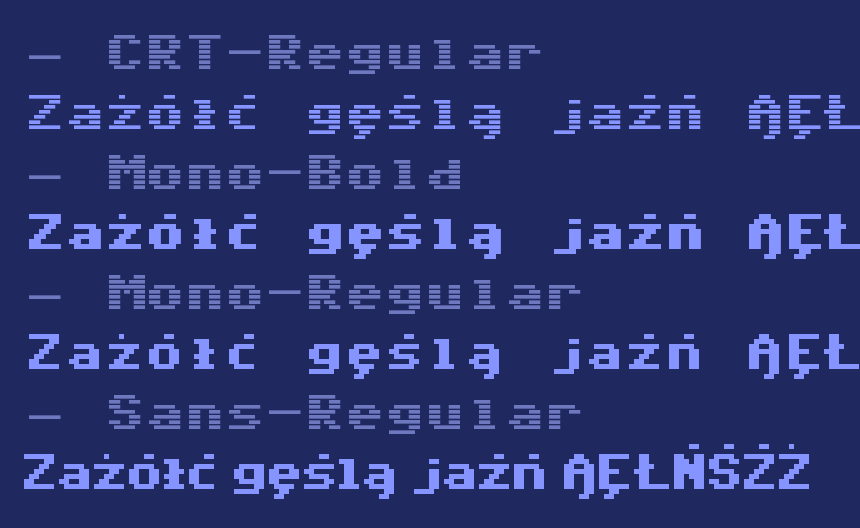
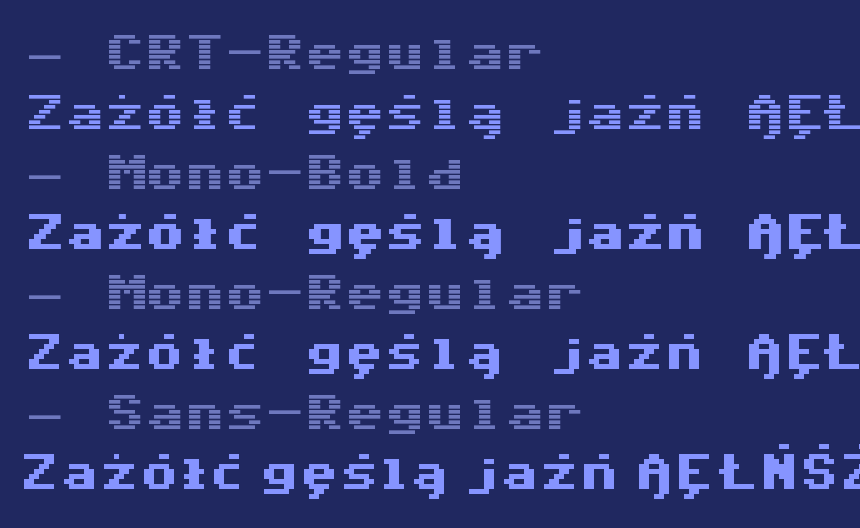
feat: czytelna tylda i luźniejsze odstępy w Sans (v1.001)
Tylda: cztery warianty czytały się jako dwie oddzielne plamki, bo
segmenty się nie stykały. Nowa jest ciągła — kolumna 3 należy do
obu wierszy — i dopiero ona czyta się jako ~.

Sans: odstęp międzyliterowy 1 px -> 2 px. Przy 1 px sąsiednie
litery z akcentami (ż, ó) zlepiały się w renderze.

Changed region(s): [[0.0605, 0.8182, 1.0, 0.9394]]

diff --git a/lib/zrob_glify.py b/lib/zrob_glify.py
@@ -161,7 +161,10 @@ def main():
                  wzor(w1="...##...", w2="...##...", w3="...##...", w4="...##...",
                       w5="...##...", w6="...##...", w7="...##..."))
     dod[0x7D] = ("RIGHT CURLY BRACKET", odbij(dod[0x7B][1]))
-    dod[0x7E] = ("TILDE", wzor(w2="..##..#.", w3=".#..##.."))
+    # 🔴 Tylda przy 2 px kresce MUSI byc CIAGLA. Cztery odrzucone warianty (ukosna,
+    # garb+dolina, symetryczna, obecna) czytaly sie jako dwie oddzielne plamki, bo
+    # segmenty sie nie stykaly. Ten dziala, bo kolumna 3 nalezy do OBU wierszy.
+    dod[0x7E] = ("TILDE", wzor(w4=".###....", w5="...####."))
 
     # ══ 2. polska interpunkcja ════════════════════════════════════════════════
     # „ ” ‚ ’ z cudzysłowów bazowych, – — z łącznika, … z kropek

diff --git a/lib/buduj.py b/lib/buduj.py
@@ -51,7 +51,7 @@ ASCENDER  = 2048 + ODSTEP_AKCENTU
 DESCENDER = -512
 CAP       = 1792
 XHEIGHT   = 1280
-WERSJA    = "1.000"
+WERSJA    = "1.001"
 ROK       = 2026
 
 # ── geometria ────────────────────────────────────────────────────────────────
@@ -156,7 +156,8 @@ def zbuduj(odmiana, glify, katalog):
                 advance = 3 * PX
         else:
             dx = -min(kolumny) * PX            # dosuń do lewej krawędzi
-            advance = (max(kolumny) - min(kolumny) + 1) * PX + PX   # +1 px odstępu
+            advance = (max(kolumny) - min(kolumny) + 1) * PX + 2*PX
+            # 2 px, nie 1: przy 1 px litery jak ż/ó zlepialy sie w renderze
 
         pen = TTGlyphPen(None)
         for (x0, y0, x1, y1) in prost:
